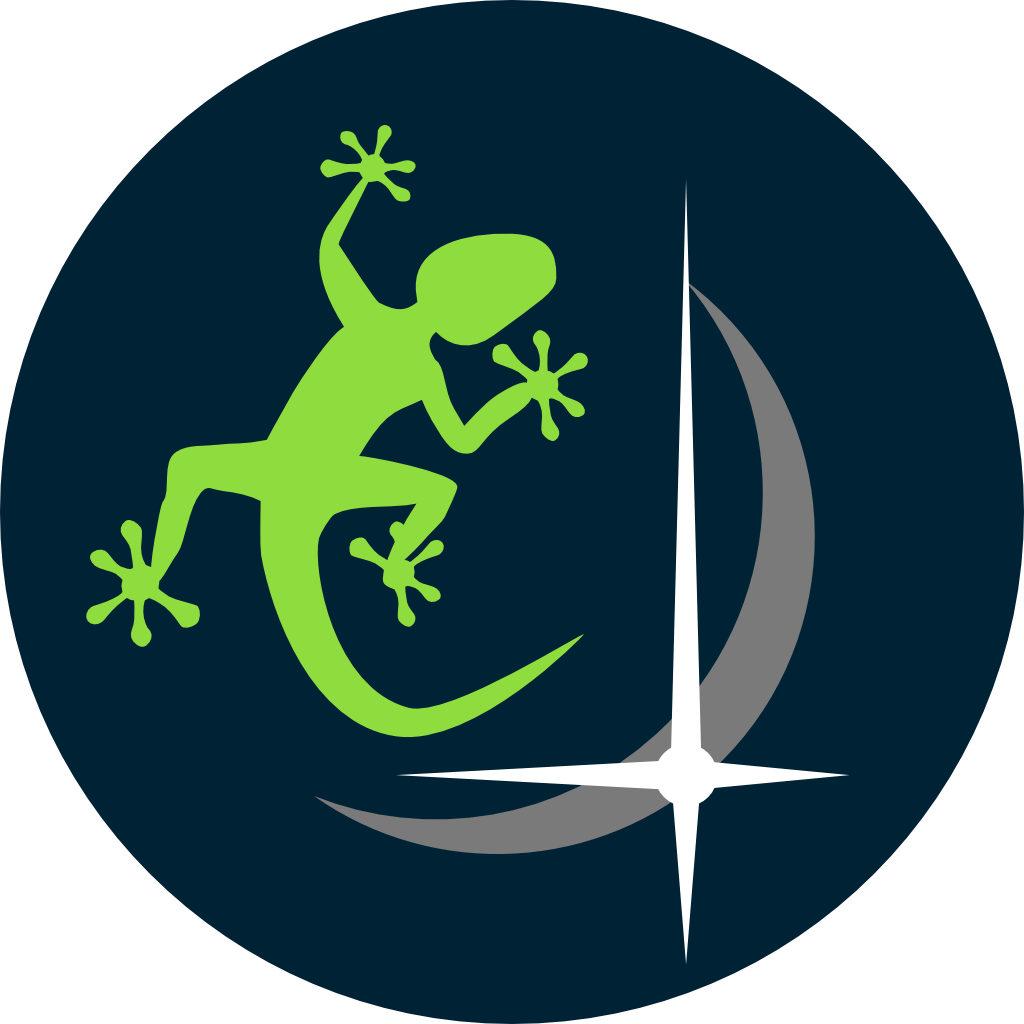
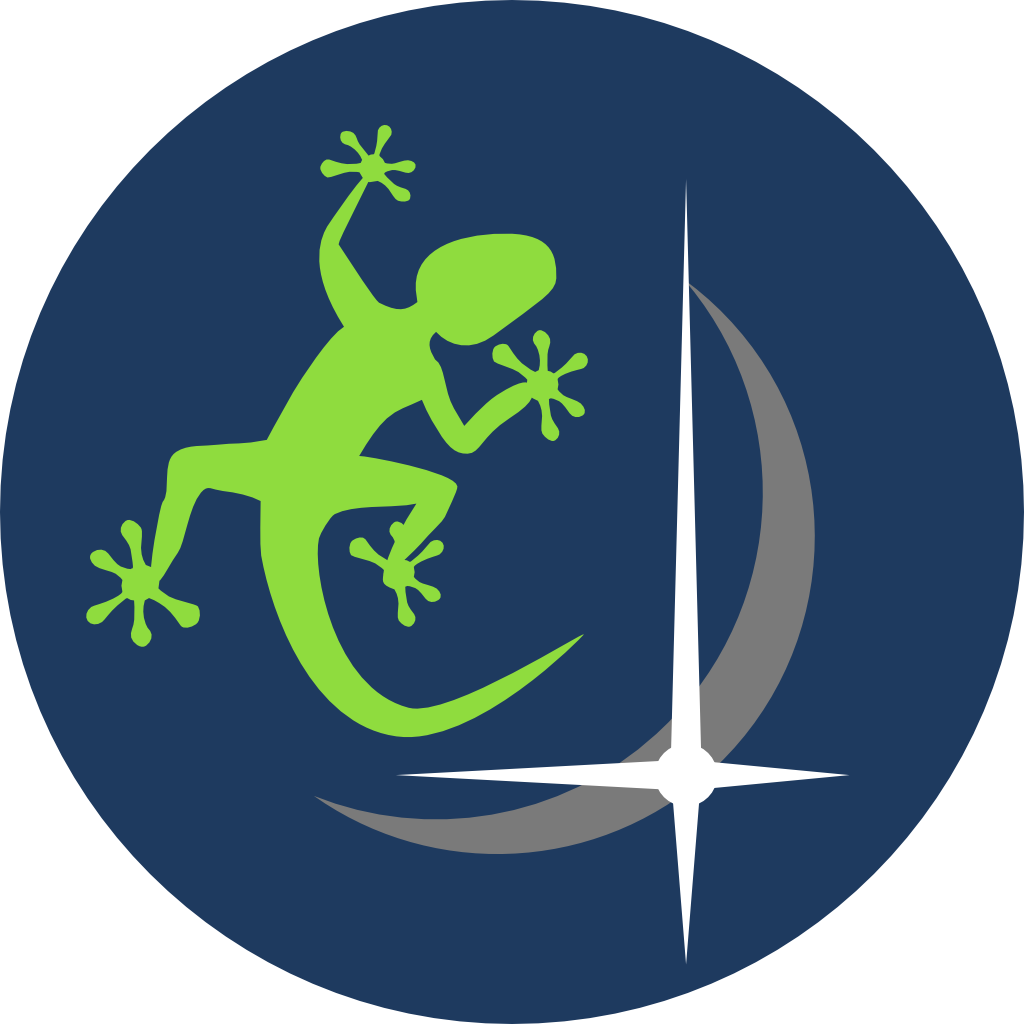
lighter darks

diff --git a/css/styles.css b/css/styles.css
@@ -1,7 +1,7 @@
 :root {
-    --color-dark: #002235;
-    --color-dark-transparent: rgba(0, 34, 53, 0.3);
-    --color-dark-a-bit-transparent: rgba(0, 34, 53, 0.5);
+    --color-dark: rgb(30, 58, 95);
+    --color-dark-transparent: rgba(30, 58, 95, 0.3);
+    --color-dark-a-bit-transparent: rgba(30, 58, 95, 0.7);
     --color-gecko: rgb(62, 195, 220);
     --color-gecko-a-bit-transparent: rgba(62, 195, 220, 0.8);
     --color-gecko-transparent: rgba(62, 195, 220, 0.3);
@@ -9,15 +9,11 @@
     --color-light: rgba(240, 248, 255, 1);
     --color-light-a-bit-transparent: rgba(240, 248, 255, 0.9);
     --color-light-transparent: rgba(240, 248, 255, 0.3);
-    --color-accent-1: #A3E4B2;
-    --color-accent-2: #1E3A5F;
     --color-neutral: rgba(79, 79, 79, 0.1);
     --color-highlight: #8FDC3E;
     --color-highlight-2: #F2C12E;
     --color-highlight-2: #8FDC3E;
     --color-transparent: rgba(0, 0, 0, 0);
-
-    --color-bg-accent: #011F34;
 
     --corner-radius: 0px;
 
@@ -100,7 +96,7 @@ hr {
 .cta-button {
     display: flex;
     align-items: center;
-    background-color: var(--color-highlight-2);
+    background-color: var(--color-highlight);
     border-radius: 5px;
     color: var(--color-dark);
     font-family: var(--cta-font);
@@ -115,7 +111,7 @@ hr {
 }
 
 .info-button {
-    background-color: var(--color-accent-2);
+    background-color: var(--color-dark);
     color: var(--color-highlight-2);
 }
 
@@ -125,7 +121,7 @@ hr {
 }
 
 .cta-button:active {
-    background-color: var(--color-accent-2);
+    background-color: var(--color-dark);
     color: var(--color-highlight);
 }
 
@@ -592,7 +588,7 @@ hr {
     position: relative;
     /* To allow child elements to be positioned relative to this container */
     align-items: center;
-    background-color: var(--color-dark-transparent);
+    background-color: var(--color-dark);
     display: flex;
     flex-direction: column;
     font-size: 2rem;
@@ -615,7 +611,7 @@ hr {
 
 .benefit-quote {
     align-items: center;
-    background-color: var(--color-dark);
+    background-color: var(--color-dark-a-bit-transparent);
     box-sizing: border-box;
     color: var(--color-light);
     display: flex;
@@ -714,7 +710,7 @@ hr {
         position: relative;
         /* To allow child elements to be positioned relative to this container */
         align-items: center;
-        background-color: var(--color-dark-transparent);
+        background-color: var(--color-dark-a-bit-transparent);
         display: flex;
         flex-direction: column;
         font-size: 2rem;
